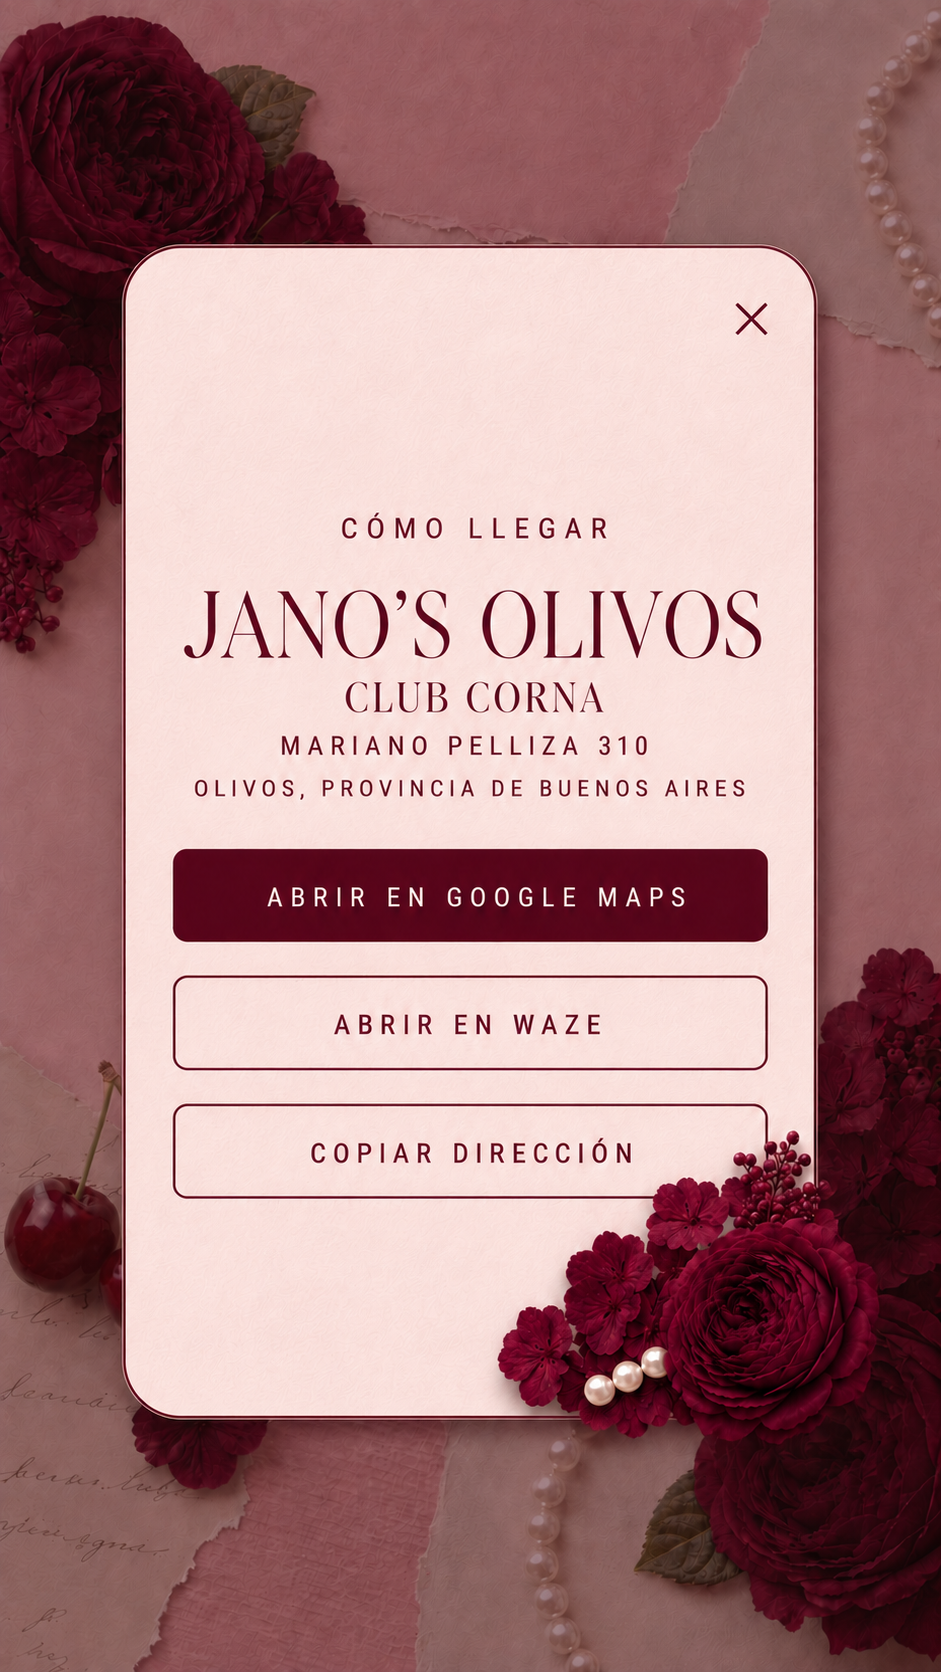
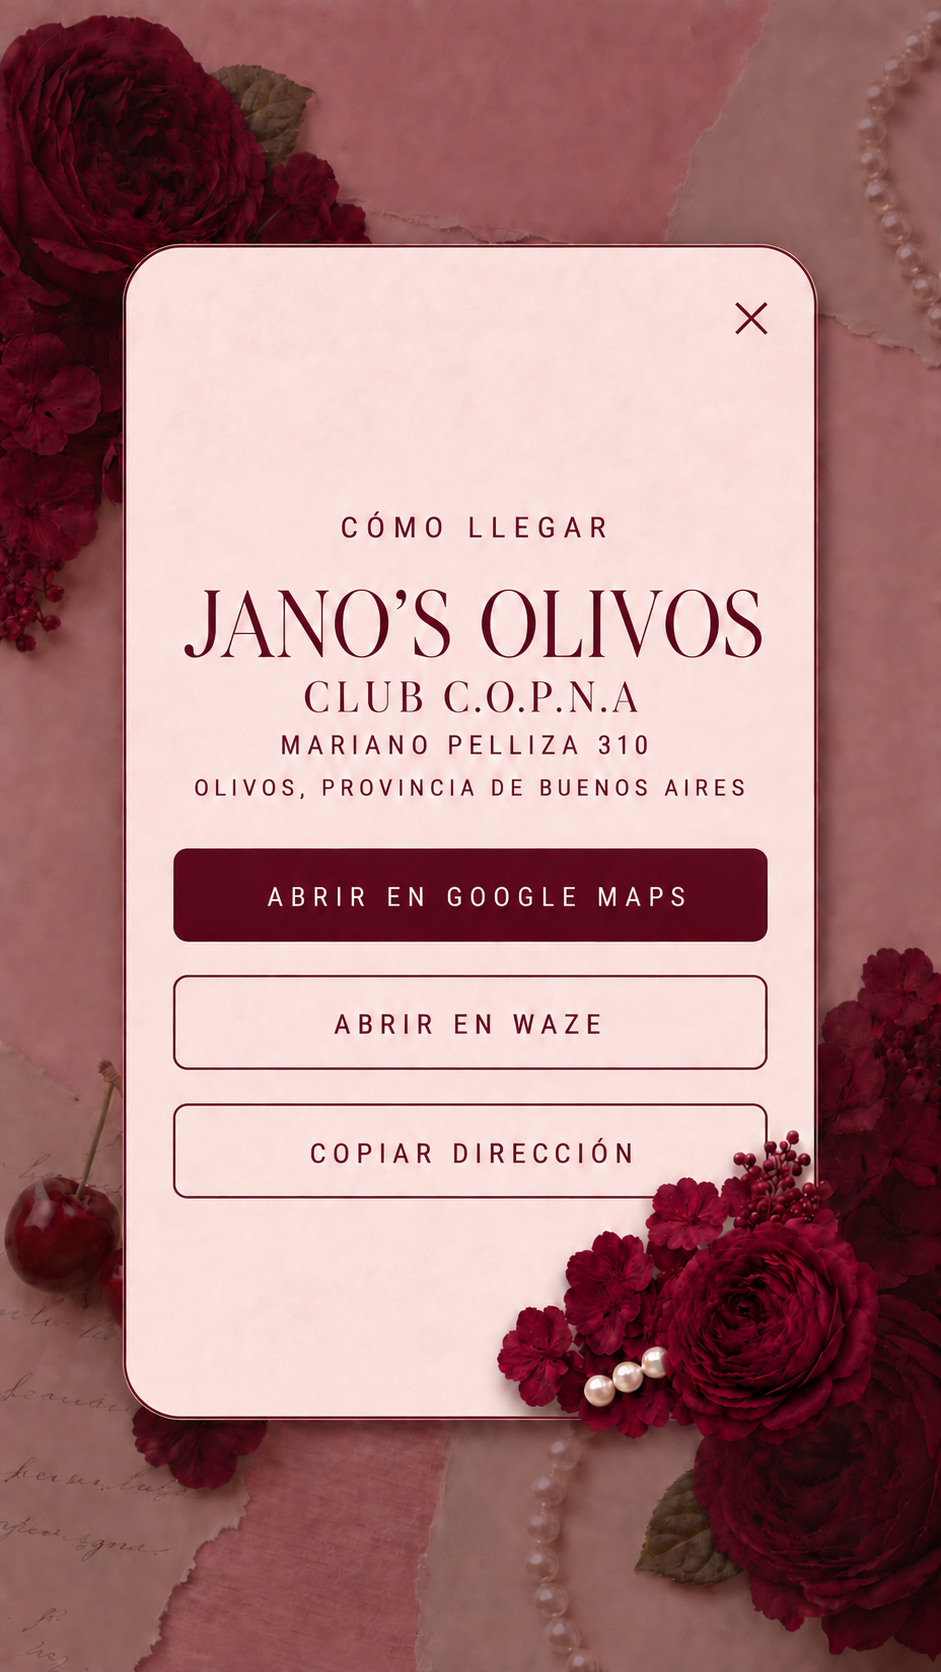
Corregir nombre del club en ubicación

diff --git a/index.html b/index.html
@@ -141,7 +141,7 @@
         <button class="location-modal__close" id="locationClose" type="button" aria-label="Cerrar">×</button>
         <div class="location-modal__content">
           <p class="sr-only">Cómo llegar</p>
-          <h2 id="locationModalTitle" class="sr-only">Jano’s Olivos</h2>
+          <h2 id="locationModalTitle" class="sr-only">Jano’s Olivos — Club C.O.P.N.A</h2>
           <address class="sr-only">
             Mariano Pelliza 310<br />
             Olivos, Provincia de Buenos Aires
